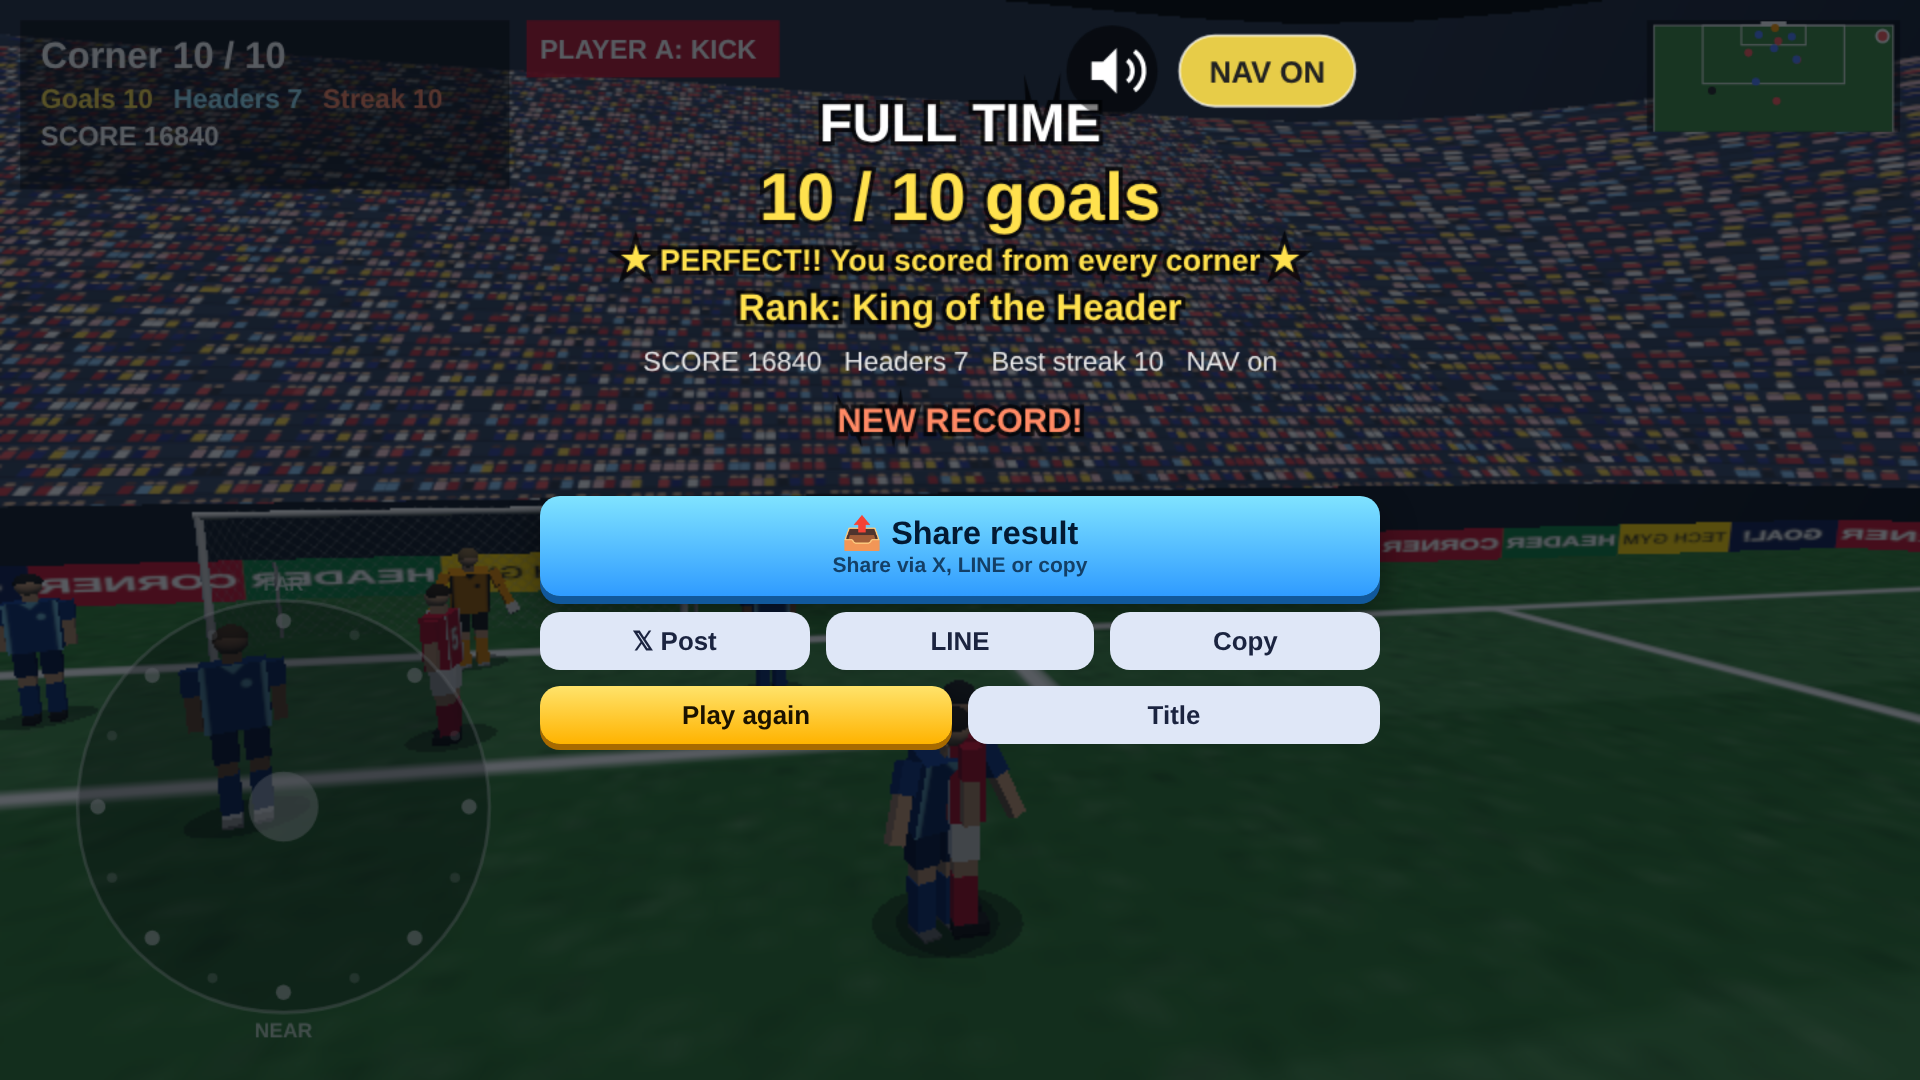
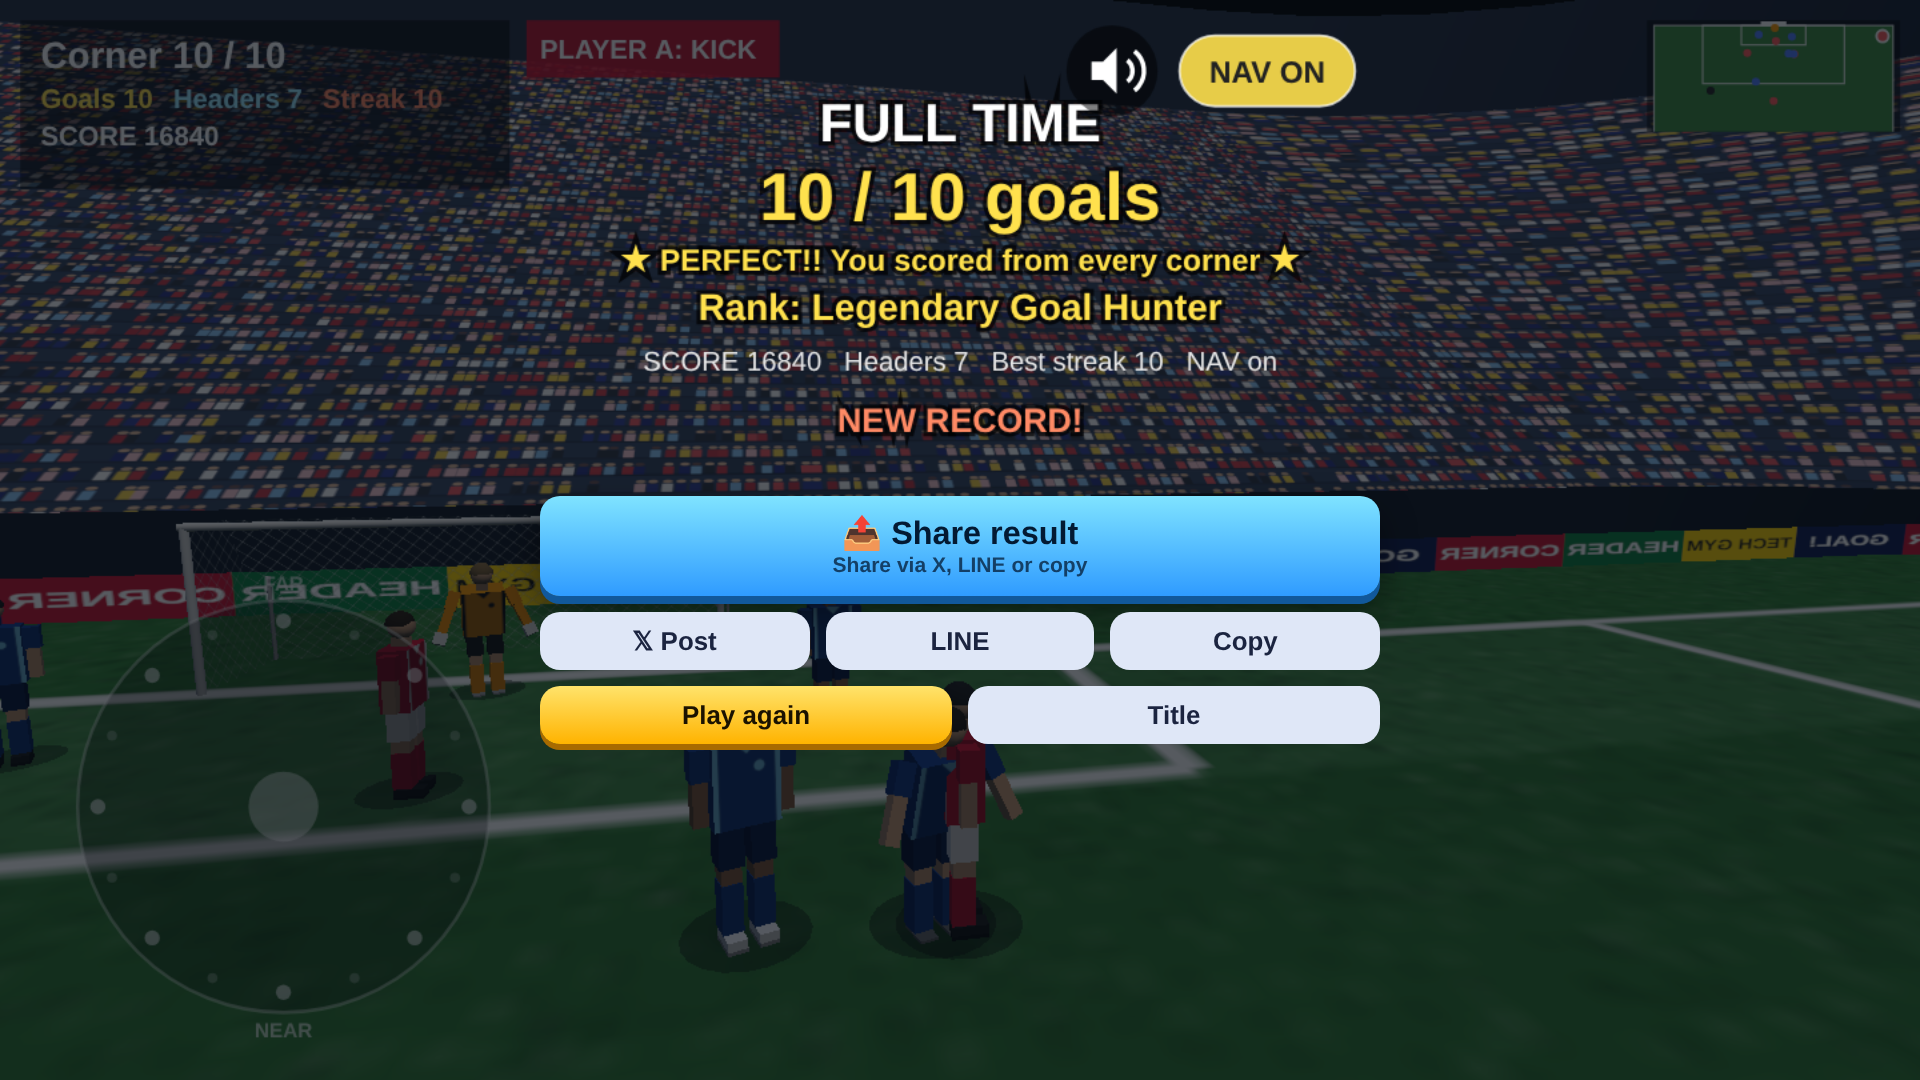
最高の称号を「伝説のゴールハンター」に
ヘディングだけでなくスライディングでも決めるので、「伝説のヘディング王」をやめた
(英語は King of the Header → Legendary Goal Hunter)。掲載文と結果画面のスクリーンショットも直した。

Claude-Session: https://claude.ai/code/session_019tLTX7dyX641bLT7A2P19t

Changed region(s): [[0.0, 0.0306, 1.0, 0.8861], [0.5312, 0.6111, 0.5938, 0.6417], [0.9062, 0.0306, 0.9375, 0.0611]]

diff --git a/i18n.js b/i18n.js
@@ -62,7 +62,7 @@ window.I18N = (() => {
       'streak': '{n} 連続ゴール!',
 
       'rank.0': '草サッカー', 'rank.1': '控えフォワード', 'rank.2': 'スタメン',
-      'rank.3': 'セットプレーの名手', 'rank.4': '代表のエースストライカー', 'rank.5': '伝説のヘディング王',
+      'rank.3': 'セットプレーの名手', 'rank.4': '代表のエースストライカー', 'rank.5': '伝説のゴールハンター',
 
       'over.title': '試合終了',
       'over.goals': '{c} / {t} ゴール',
@@ -154,7 +154,7 @@ window.I18N = (() => {
       'streak': '{n} goals in a row!',
 
       'rank.0': 'Sunday League', 'rank.1': 'Bench Striker', 'rank.2': 'Starting XI',
-      'rank.3': 'Set-piece Specialist', 'rank.4': 'International No.9', 'rank.5': 'King of the Header',
+      'rank.3': 'Set-piece Specialist', 'rank.4': 'International No.9', 'rank.5': 'Legendary Goal Hunter',
 
       'over.title': 'FULL TIME',
       'over.goals': '{c} / {t} goals',
